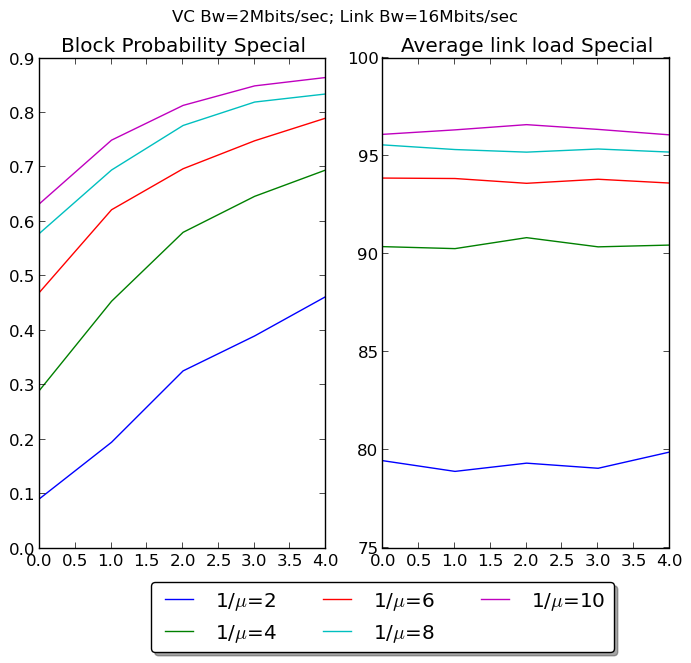
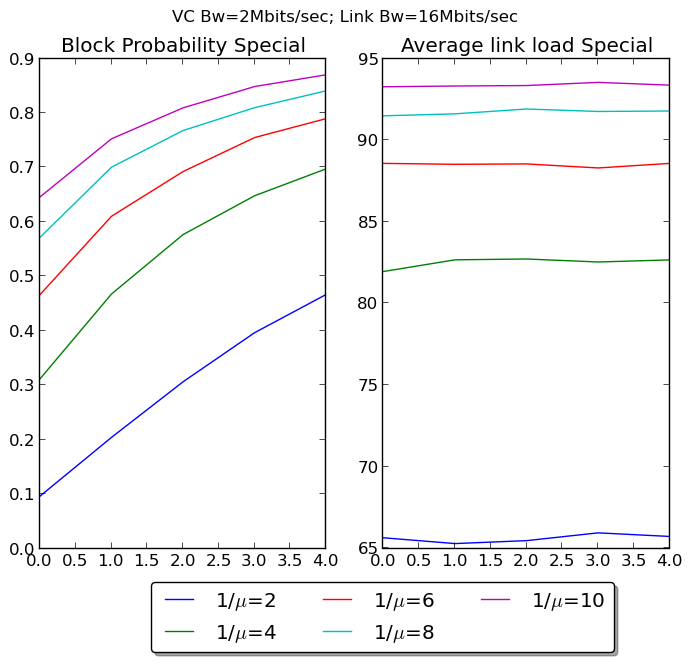
ex3 graphs with mean

diff --git a/Assigment 3 - Network Simulation/codeFiles/VCSim2.py b/Assigment 3 - Network Simulation/codeFiles/VCSim2.py
@@ -106,35 +106,37 @@ for id in range(1, 3):
 print("Simulated Average Link Load=%.2f%%" % (100.0 * stats.loadint / simtime))
 '''
 
-for l, lambstan in enumerate(lambdastandard):
-    for a, lambspe in enumerate(lambdaspecial):
+for i in range(1, 3):
 
-        for j, invmu in enumerate(invmus):
-            for k, B in enumerate(Bs):
-                C1 = B / bstandard
-                C2 = B / bspecial
+    for l, lambstan in enumerate(lambdastandard):
+        for a, lambspe in enumerate(lambdaspecial):
 
-                stats = NodeStats(B, R, N)
-                env = simpy.Environment()
-                env.process(vc_generator(env, 1, lambstan, invmu, bstandard, stats))
-                env.process(vc_generator(env, 2, lambspe, invmu, bspecial, stats))
-                # env.process(vc_generator(env, lamb, invmu, b, stats))
-                env.run(simtime)
+            for j, invmu in enumerate(invmus):
+                for k, B in enumerate(Bs):
+                    C1 = B / bstandard
+                    C2 = B / bspecial
 
-                print("---- lambdaStandard: %d, lambdaSpecial: %.1f, invmu: %d, B: %d, bStandard: %d, bSpecial: %d, simtime: %d ----" % (
-                lambstan, lambspe, invmu, B, bstandard, bspecial, simtime))
+                    stats = NodeStats(B, R, N)
+                    env = simpy.Environment()
+                    env.process(vc_generator(env, 1, lambstan, invmu, bstandard, stats))
+                    env.process(vc_generator(env, 2, lambspe, invmu, bspecial, stats))
+                    # env.process(vc_generator(env, lamb, invmu, b, stats))
+                    env.run(simtime)
 
-                for id in range(1, N + 1):
-                    print(
-                    "Simulated Block Probability %d=%f" % (id, 1.0 * stats.vcs_blk[id - 1] / stats.vcs_total[id - 1]))
+                    print("---- lambdaStandard: %d, lambdaSpecial: %.1f, invmu: %d, B: %d, bStandard: %d, bSpecial: %d, simtime: %d ----" % (
+                    lambstan, lambspe, invmu, B, bstandard, bspecial, simtime))
 
-                print("Simulated Average Link Load=%.2f%%" % (100.0 * stats.loadint / simtime))
+                    for id in range(1, N + 1):
+                        print(
+                        "Simulated Block Probability %d=%f" % (id, 1.0 * stats.vcs_blk[id - 1] / stats.vcs_total[id - 1]))
 
-                resStandard[l, j, k] = [(1.0 * stats.vcs_blk[0] / stats.vcs_total[0]),
-                                           (100.0 * stats.loadint / simtime)]
+                    print("Simulated Average Link Load=%.2f%%" % (100.0 * stats.loadint / simtime))
 
-                resSpecial[a, j, k] = [(1.0 * stats.vcs_blk[1] / stats.vcs_total[1]),
-                                          (100.0 * stats.loadint / simtime)]
+                    resStandard[l, j, k] += [(1.0 * stats.vcs_blk[0] / stats.vcs_total[0]),
+                                               (100.0 * stats.loadint / simtime)]
+
+                    resSpecial[a, j, k] += [(1.0 * stats.vcs_blk[1] / stats.vcs_total[1]),
+                                               (100.0 * stats.loadint / simtime)]
 
 
 # now plot
@@ -150,11 +152,11 @@ for k, B in enumerate(Bs):
     for j, invmu in enumerate(invmus):
 
         plt.subplot(1, 2, 1)
-        plt.plot(resStandard[:, j, k, 0], label="1/$\mu$=" + str(invmu))
+        plt.plot(resStandard[:, j, k, 0]/10, label="1/$\mu$=" + str(invmu))
         plt.title("Block Probability Standard")
 
         plt.subplot(1, 2, 2)
-        plt.plot(resStandard[:, j, k, 1], label="1/$\mu$=" + str(invmu))
+        plt.plot(resStandard[:, j, k, 1]/10, label="1/$\mu$=" + str(invmu))
         plt.title("Average link load Standard")
 
     plt.legend(loc='upper center', bbox_to_anchor=(0, -0.05),
@@ -168,11 +170,11 @@ for k, B in enumerate(Bs):
 
     for j, invmu in enumerate(invmus):
         plt.subplot(1, 2, 1)
-        plt.plot(resSpecial[:, j, k, 0], label="1/$\mu$=" + str(invmu))
+        plt.plot(resSpecial[:, j, k, 0]/10, label="1/$\mu$=" + str(invmu))
         plt.title("Block Probability Special")
 
         plt.subplot(1, 2, 2)
-        plt.plot(resStandard[:, j, k, 1], label="1/$\mu$=" + str(invmu))
+        plt.plot(resStandard[:, j, k, 1]/10, label="1/$\mu$=" + str(invmu))
         plt.title("Average link load Special")
 
     plt.legend(loc='upper center', bbox_to_anchor=(0, -0.05),
